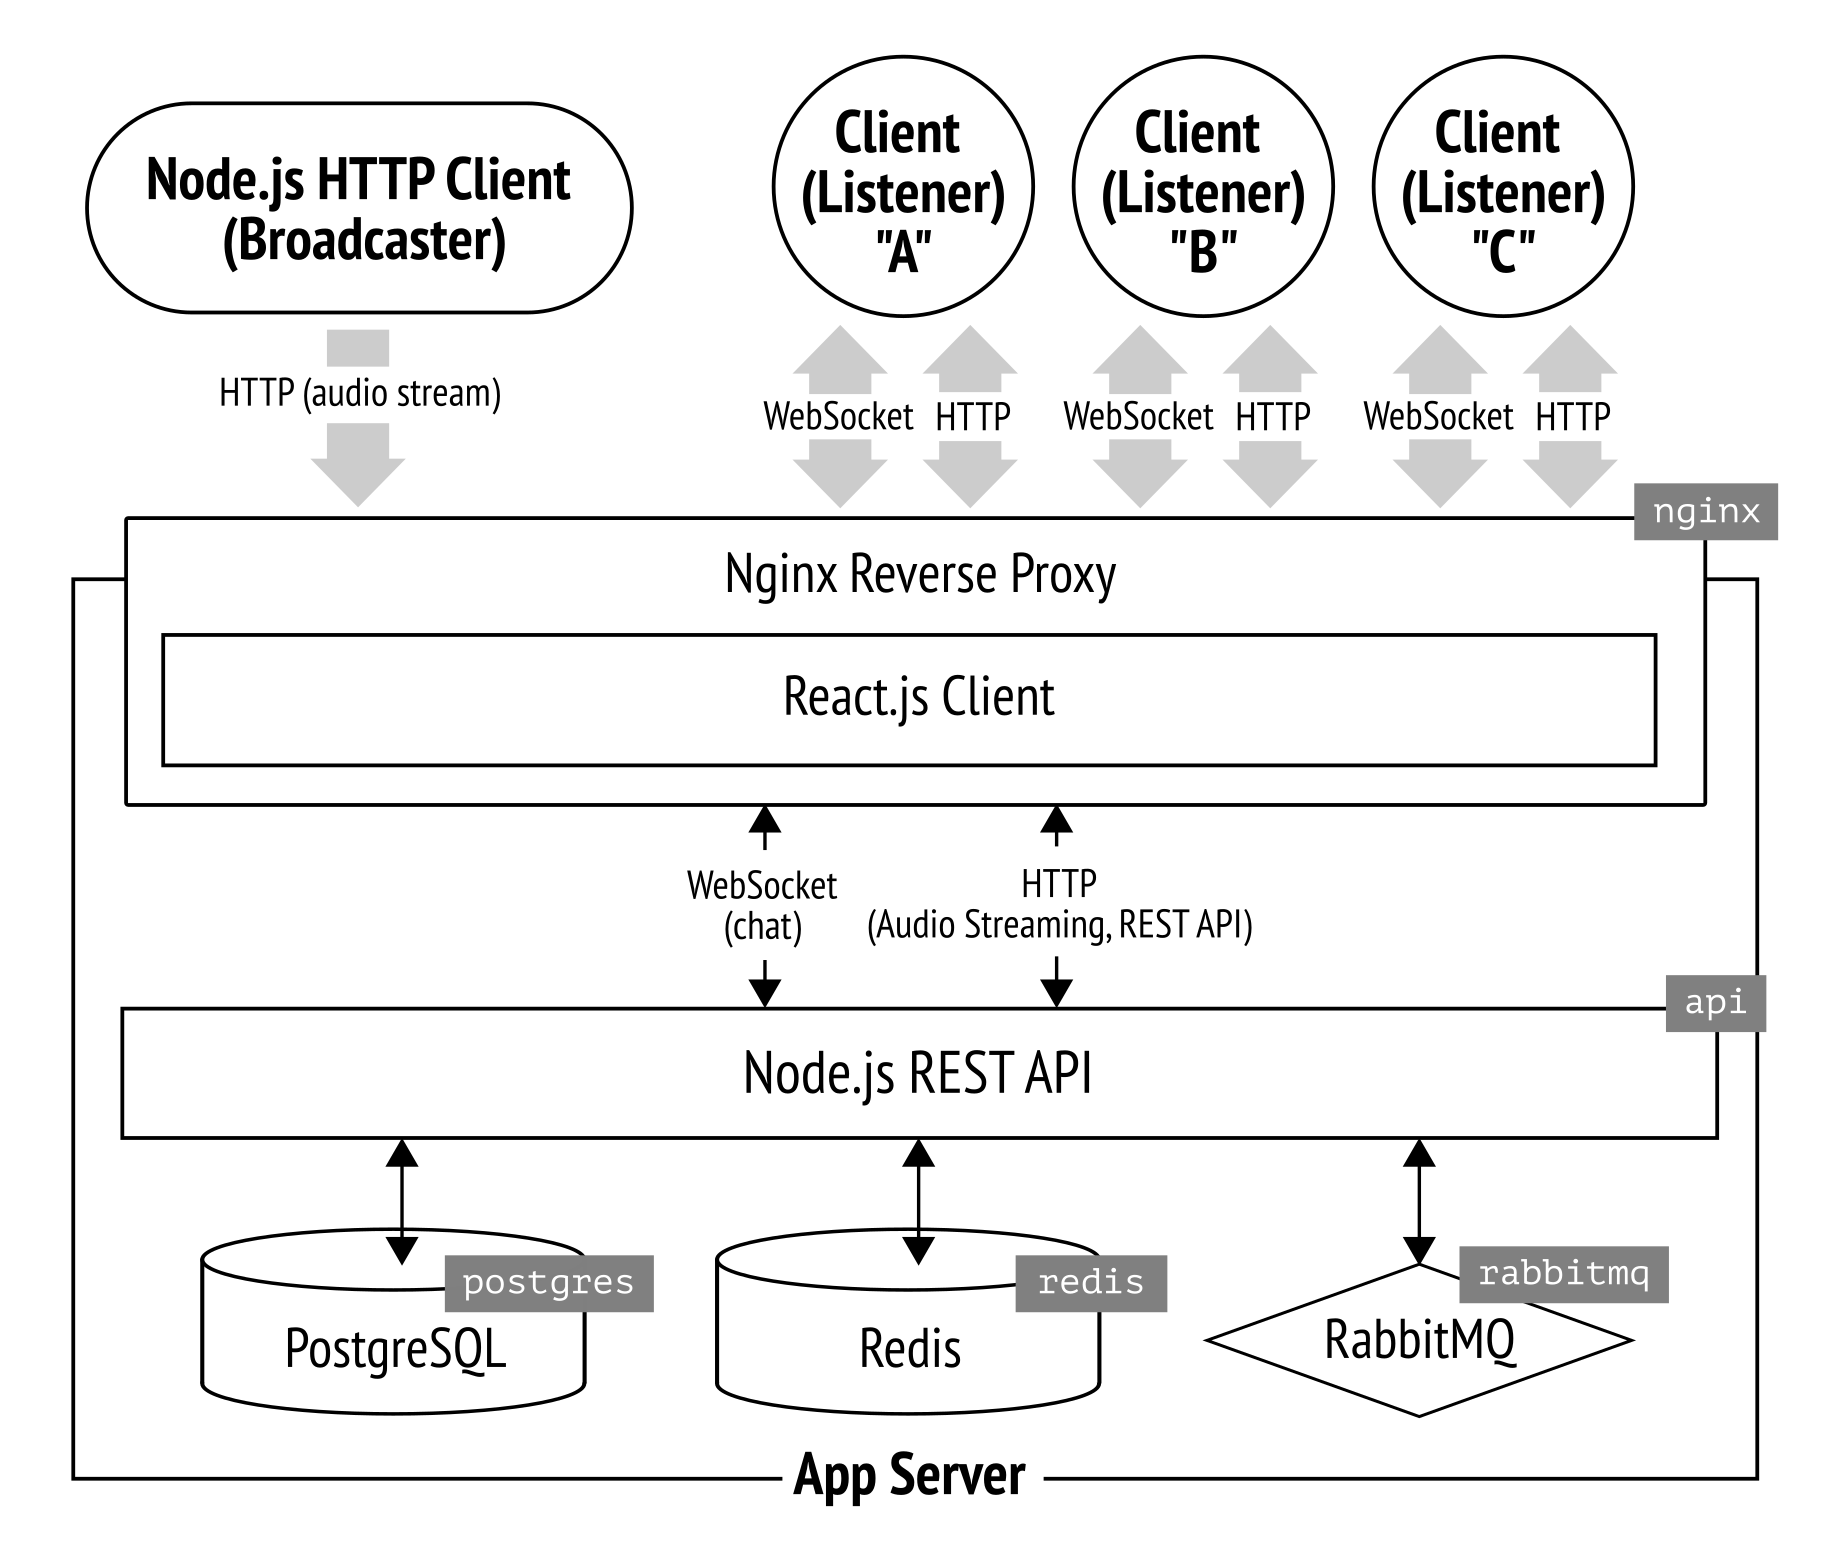
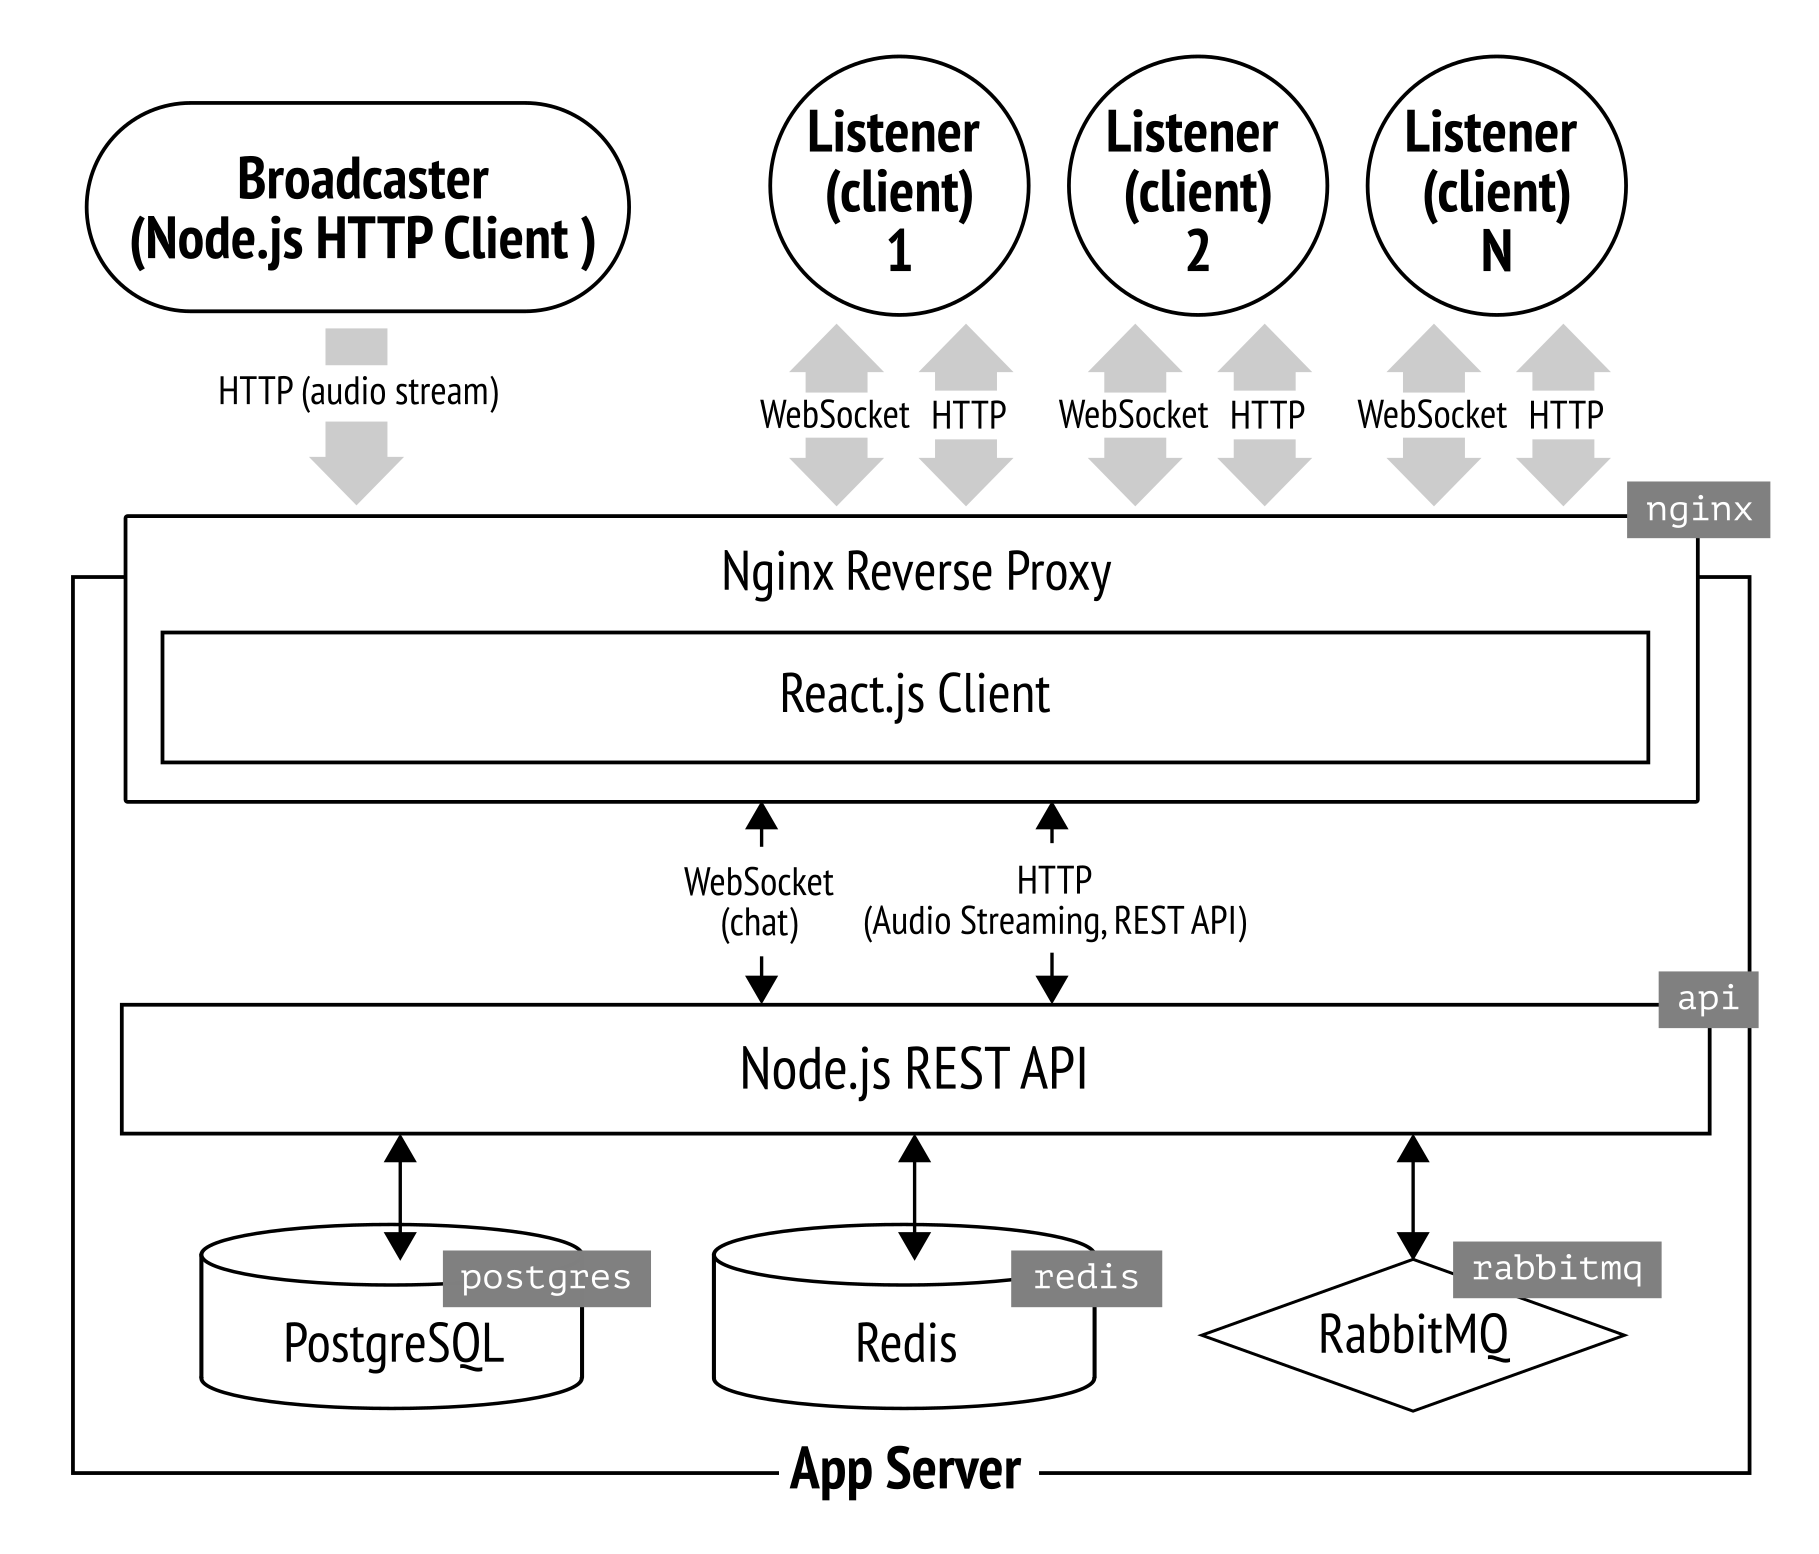
Update the documentation (#136)

diff --git a/README.md b/README.md
@@ -1,8 +1,14 @@
+> **Current Development Status**
+>
+> - At the moment of writing, React client uses only a fraction of the existing API.
+
 # LiveStreamer
 
 ## About
 
 Многопользовательское веб-приложение для аудио-стриминга и общения в чате. Концептуально, это клон <a href="http://mixlr.com">Mixlr</a>, но в меньшем масштабе. Архитектурно, состоит из трёх компонентов: фронт, API и CLI-приложение для стриминга. Аудио-стриминг реализован по HTTP, а чат, интерактивные функции и уведомления — через WebSocket. Желающий постримить, запускает на своей машине HTTP клиент, который захватывает музыку из ОС и отправляет её на сервер приложения, с которого уже каждый слушатель, открывший приложение, может слушать стрим, общаться в чате, ставить лайки и пользоваться другими интерактивными функциями. Более подробное описание см. на ГитХабе.
+
+The app is comprised of the two main parts: the backend, the frontend and the audio streaming client (broadcaster).
 
 ---
 
@@ -10,48 +16,52 @@ Web application for broadcasting live audio and chatting. Conceptually, it is si
 
 Suppose you're a dj and you want to broadcast your mix live. All you need to do is to start up [this command-line app](https://github.com/ponomarevandrey/live-streamer-source-client) on your local machine — it captures the live audio output and streams it to the application server, which in turn broadcasts the audio to all connected listeners.
 
+## Stack
 
+- **backend:** TypeScript, Node.js (Express.js), PostgreSQL (raw SQL, without ORM), Redis
+- **frontend:** React.js, SASS
 
-### Stack
+## Documentation
 
-* **backend:** TypeScript, Node.js (Express.js), PostgreSQL (raw SQL, without ORM), Redis
-* **frontend:** React.js, SASS
-* **CI/CD:** GitHub Actions, Docker Compose and lots of Bash scripts
-
-
+For the Node.js REST API documentation refer to the [e2e API tests](https://github.com/andreyponomarevru/livestreamer/tree/main/api/tests-e2e-api).
 
 ## Backend
 
-### App server (`/api` dir)
+### Node.js REST API ( dir)
 
 Here's a quick overview of features implemented in application server's API:
 
-* cookie session authentication
-* registration confirmation (by email)
-* forgotten password recovery (by email)
-* soft account deletion
-* RBAC authorization
-* caching of SQL queries (using Redis)
-* rate-limiting
-* cursor pagination
-* chat (over HTTP + WebSocket)
-
-
+- cookie session authentication
+- registration confirmation (by email)
+- forgotten password recovery (by email)
+- soft account deletion
+- RBAC authorization
+- caching of SQL queries (using Redis)
+- rate-limiting
+- cursor pagination
+- chat (over HTTP + WebSocket)
 
 ### Database (`/postgres` dir)
 
+Application main database, PostgreSQL.
+
+All tables are created and seeded via migrations files in [`api/migrations`](https://github.com/andreyponomarevru/livestreamer/tree/main/api/src/migrations).
+
+**WARNING** The schema demonstrated on this figure is a bit outdated: I have added/renamed some columns and tables. I left it here just to provide a general idea of how the data is structured.
+
 ![](./doc/db-schema.png)
-
-
 
 ### Secondary database / cache (`/redis` dir)
 
-Redis is used for:
+Redis is used for storing frequently updated real-time data:
 
-* caching API requests
-* storing frequently updated real-time data e.g. stream likes, stream metadata, authenticated user sessions.
+- caching API requests
+- storing live stream likes, stream metadata
+- storing authenticated user sessions
 
+### Message Queue
 
+RabbitMQ queues some tasks to be performed on user sign up (e.g. sending sign up confirmation email)
 
 ### HTTP Server (`/nginx` dir)
 
@@ -59,9 +69,13 @@ Nginx is used as reverse proxy in front of the App server.
 
 Besides its main purpose — to proxy HTTP and WebSocket traffic — it is also configured as a rate limiter.
 
-
+**IMPORTANT** Nginx is nod dockerized. It is deployed manually.
 
 ### Frontend (`/frontend` dir)
+
+React.js app.
+
+**WARNING** Currently, haven't included this part of the app into the CI/CD pipeline.
 
 Some screenshots (just to give you an idea of how the app looks in different states):
 
@@ -77,60 +91,38 @@ Some screenshots (just to give you an idea of how the app looks in different sta
 
 <img src="./doc/ui-screenshots/06.png" width="40%">
 
-
-
 ## Streaming client (`/streaming-client` dir)
 
-The client app consists of two parts: 
-* child process capturing all OS audio
-* HTTP client, sending the captured audio to the server in real-time. 
+Command-line Source Client (HTTP client + audio broadcaster) for LiveStreamer app. Use it to broadcast live audio to application server.
+
+The client app consists of two parts:
+
+- child process capturing all OS audio
+- HTTP client, sending the captured audio to the server in real-time.
 
 To authenticate to the application server, the client uses regular cookie authentication.
-
-
 
 ### Requirements
 
 This command-line app requires two environment variables containing your username and password: `BROADCASTER_USERNAME` and `BROADCASTER_PASSWORD`.
 
-
-
 ### How to use
 
 1. First, log in to the application server: `node build/index.js login:prod`
 2. Now you can start broadcasting audio. Issue the following command:
+
    ```shell
    node build/index.js stream:prod
-   
+
    # You can pass additional 'save' option to write the stream to disk while you're streaming:
    node build/index.js stream:prod save
    ```
+
 3. After the stream is finished, log out: `node build/index.js logout:prod`
 
    If you have passed the `save` option in step 2, you will find the `.wav` file of the recorded stream in the `recordings` directory.
 
-
-
 ## App Architecture
-
-The app is comprised of the two main parts:
-
-* `livestreamer-backend/` — **Docker Compose project for the application backend.**
-  * `api/` service — Node.js REST API
-  * `postgres/` service — application main database, PostgreSQL
-  * `redis/` service — used as cache and storage for the real-time data
-  * `nginx` — this directory is NOT a part of Docker Compose project, Nginx is deployed manually by copying config files from this directory to server.
-  
-* `livestreamer-frontend/`. **Docker Compose project for the application frontend.**
-  * `client/` service — React.js app. Run this container only in development environment.
-
-There are 3 environments set up in Compose:
-
-* production
-* development
-* test (not configured yet)
-
----
 
 ```
                                                         chat over WebSocket + HTTP
@@ -144,19 +136,19 @@ There are 3 environments set up in Compose:
 
 ![](./doc/architecture.png)
 
+## Database Schema
 
+![](./doc/db-schema.png)
 
-## How the app works 
+# How it works
 
 ### High-level overview
 
-The app involves three parties: **source client (aka broadcaster)**, **Application Server** and **consuming client (aka listener(s))**:
+The app involves three parties: **streaming client (aka broadcaster)**, **Application Server** and **consuming client (aka listener(s))**:
 
-* **source HTTP client (aka broadcaster)** (the app and its documentation are in the [separate repo](https://github.com/ponomarevandrey/live-streamer-source-client)) — it captures the audio output from OS and streams it to the app server using regular progressive HTTP streaming
-* **application server** (this repo) — serves as audio streaming and chat server. It provides REST API used by both Source Client app and React.js client app. App server takes the incoming audio stream and passes it through to listeners.
-* **consuming clients (aka listeners)**. React.js client-side app.
-
-
+- **source HTTP client (aka broadcaster)** (the app and its documentation are in the [separate repo](https://github.com/ponomarevandrey/live-streamer-source-client)) — it captures the audio output from OS and streams it to the app server using regular progressive HTTP streaming
+- **application server** (this repo) — serves as audio streaming and chat server. It provides REST API used by both Source Client app and React.js client app. App server takes the incoming audio stream and passes it through to listeners.
+- **consuming clients (aka listeners)**. React.js client-side app.
 
 ### Low-level overview
 
@@ -178,54 +170,18 @@ All chat functionality, notifications as well as other real-time features are im
 
     Thus we get the benefits of REST architecture and Websocket protocol at the same time. While WebSocket allows us to do everything in real-time, REST provides the structure and order in client-server communication.
 
+# <del>Deployment</del>
 
+**WARNING** This section is deprecated. I replaced the manual deployment with Bash and the only thing left is to set up the Workflow running these scripts in GitHub Actions. This is on my TODO list.
 
-## Deployment
+## Frontend
 
-### Frontend 
+To build and deploy the app to production env, run `build-and-deploy.sh` script located in `livestreamer-frontend` directory.
 
-To build and deploy the app to production env., run `build-and-deploy.sh` script located in `livestreamer-frontend` directory. 
-
-It will start Compose with `client` container with all production environment variables, compile the code, stop the container and upload the compiled code to the server (`/var/www/...`) where the app will be served by Nginx. 
-
-
+It will start Compose with `client` container with all production environment variables, compile the code, stop the container and upload the compiled code to the server (`/var/www/...`) where the app will be served by Nginx.
 
 ### Backend
 
-To build and deploy the app to production env., manually rebuild local image(s) > upload them to Docker Hub > on VPS pull images from Docker Hub and restart all or only the required containers. 
-
-Here is a short explanation of how to do this:
-
-> Steps 1 and 3 are required only when you deploy the app to the server for the very first time. 
->
-> After that, when you're just updating the code, skip those steps.
-
-1. **Uncomment these lines *for each service* in `docker-compose.prod.yml`**
-   ```yml
-   build:
-     context: ...
-     dockerfile: ...
-   ```
-2. **Build production images of all or only the required services**
-   ```shell
-   cd livestreamer-backend
-   docker-compose -f docker-compose.yml -f docker-compose.prod.yml build
-   
-   # OR build image for only one service:
-   docker-compose -f docker-compose.yml -f docker-compose.prod.yml build api
-   ```
-3. **Comment out the lines we've uncommented at step 1 again**; otherwise when you'll have this files copied to your server and passed to `docker-compose up -f ...`, Compose will build images localy using Dockerfiles instead of pulling the images from Docker Hub. This eventually won't allow us to set up CI/CD with GitHub Actions.
-
-4. **Authenticate to Docker Hub**
-   ```shell
-   docker login
-   ```
-5. **Push all or only the required images to Docker Hub**
-   ```shell
-   docker push ponomarevandrey/livestreamer-backend_api
-   docker push ponomarevandrey/livestreamer-backend_redis
-   docker push ponomarevandrey/livestreamer-backend_db
-   ```
 6. **SSH into VPS**
 
 7. **Pull new image**
@@ -233,37 +189,62 @@ Here is a short explanation of how to do this:
    # 'api' is the container name
    docker-compose -f docker-compose.yml -f docker-compose.prod.yml pull api
    ```
-8. **Restart the container**. If you need to restart only the containers whose image was updated (as we usually do) add the `--no-deps` flag. 
+8. **Restart the container**. If you need to restart only the containers whose image was updated (as we usually do) add the `--no-deps` flag.
+
    ```shell
    docker-compose \
      -f docker-compose.yml \
      -f docker-compose.prod.yml \
      up
        --force-recreate \
-       --build 
+       --build
        # + optional `--no-deps` and `-d`
    ```
-   * Without `--force-recreate` Compose will use the old image
-   * Without `-d` flag Compose will run in "attached mode" outputing everything to console. 
+
+   - Without `--force-recreate` Compose will use the old image
+   - Without `-d` flag Compose will run in "attached mode" outputing everything to console.
      > By default, Docker runs the container in attached mode. In the attached mode, Docker can start the process in the container and attach the console to the process’s standard input, standard output, and standard error ([source](https://www.java4coding.com/contents/docker/docker-attached-vs-detached-mode))
-      
-     So later when we will be automating the deployment with GitHub Actions, always use `-d` everywhere to detach the terminal from Compose process stdout/stderr. When we write any deployment Bash scripts we should use the '-d' flag as well.
+     > So later when we will be automating the deployment with GitHub Actions, always use `-d` everywhere to detach the terminal from Compose process stdout/stderr. When we write any deployment Bash scripts we should use the '-d' flag as well.
 
 9. **Delete old image** to free up the disk space
-   ```shell 
+
+   ```shell
    docker image prune -f
    ```
 
-   * If you're deploying the app for the first time — refer to [my article on setting up CI/CD with GitHub Actions](https://andreyponomarev.ru/articles/2021-02-12-ci-cd-for-vps-with-github-actions.html), "Manual Deployment" section, from bullet point four and on.
-   * If you want just to update the specific container — refer to [my article on setting up CI/CD with GitHub Actions](https://andreyponomarev.ru/articles/2021-02-12-ci-cd-for-vps-with-github-actions.html), "Redeployment" section.
+   - If you're deploying the app for the first time — refer to [my article on setting up CI/CD with GitHub Actions](https://andreyponomarev.ru/articles/2021-02-12-ci-cd-for-vps-with-github-actions.html), "Manual Deployment" section, from bullet point four and on.
+   - If you want just to update the specific container — refer to [my article on setting up CI/CD with GitHub Actions](https://andreyponomarev.ru/articles/2021-02-12-ci-cd-for-vps-with-github-actions.html), "Redeployment" section.
 
+# Testing
 
-
-## Current Development Status
-
-* all of the essential features of the app server are implemented; the code needs some refactoring, but I decided not to touch anything until I write more unit tests
-* at the moment of writing, React client uses only a fraction of the existing API
-
-
-
-
+- **To run unit tests for the API (`/api`):**
+  - in dev env:
+    ```shell
+    cd api
+    docker compose --file docker-compose.dev.yml up api-dev
+    docker exec -it api-dev bash
+    npm run test:unit
+    ```
+  - in test env: `./ci-cd/run-unit-tests.sh` (normally, this should be executed only in CD pipeline but you can use it locally, before pushing the code, to double check that everything works).
+- **To run integration tests:**
+  - in dev env:
+    ````shell
+    cd api
+    docker compose --file docker-compose.dev.yml up
+    docker exec -it api-dev bash
+    npm run test:int
+    ```.
+    ````
+  - in test env: start all containers > `./ci-cd/run-int-test.sh` (normally, this should be executed only in CD pipeline but you can use it locally, before pushing the code, to double check that everything works).
+    In both environments, while inside the container you can also run migrations, e.g. `npm run migratesql up`
+- **To run e2e API test:**
+  - in dev env:
+    ````shell
+    cd api
+    docker compose --file docker-compose.dev.yml up
+    docker exec -it api-dev bash
+    npm run test:e2e-api
+    ```.
+    ````
+  - in test env: start all containers > `./ci-cd/run-int-test.sh` (normally, this should be executed only in CD pipeline but you can use it locally, before pushing the code, to double check that everything works).
+    In both environments, while inside the container you can also run migrations, e.g. `npm run migratesql up`
